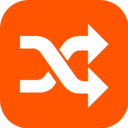
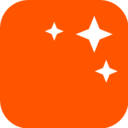
0.7.4 : icône de l'extension en baguette magique, jauge rétablie sur le bouton vitesse

Changed region(s): [[0.125, 0.125, 0.9375, 0.8438]]

diff --git a/content/audio.js b/content/audio.js
@@ -1,7 +1,7 @@
 /*
  * Enhancer for SoundCloud™ — Audio : vitesse, effets, analyse (monde principal)
  *
- * Bouton « baguette magique » à gauche du volume (mêmes cotes que les icônes SoundCloud).
+ * Bouton « jauge » à gauche du volume (mêmes cotes que les icônes SoundCloud).
  * Panneau dans le style du popover de volume :
  *   · Vitesse 0,1× → 3× : curseur logarithmique (même sensation sur toute la
  *     plage), aimant sur 1×, double-clic = 1×, molette = ±1 %
@@ -302,7 +302,7 @@
         const volume = document.querySelector('.playControls__volume'); if (!volume) return;
         injectStyles();
         btn = document.createElement('button'); btn.type = 'button'; btn.className = `${NS}-btn sc-mr-1x`; btn.setAttribute('aria-label', L.tip);
-        btn.innerHTML = `<div><svg viewBox="0 0 16 16" aria-hidden="true"><path d="M2.5 13.5l7.5-7.5"/><path d="M9 5l2 2"/><path d="M12.5 1.5v2M12.5 6.5v2M10 4h-1M15 4h1M11 2.2l-.7-.7M14 5.8l.7.7M14 2.2l.7-.7M11 5.8l-.7.7"/></svg></div>`;
+        btn.innerHTML = `<div><svg viewBox="0 0 16 16" aria-hidden="true"><path d="M2.75 11.25a5.25 5.25 0 1 1 10.5 0"/><path d="M8 11.25l2.6-3.6"/><circle cx="8" cy="11.25" r=".9" fill="currentColor" stroke="none"/></svg></div>`;
         btn.addEventListener('click', togglePanel);
         volume.parentElement.insertBefore(btn, volume);
         updateBtn();
